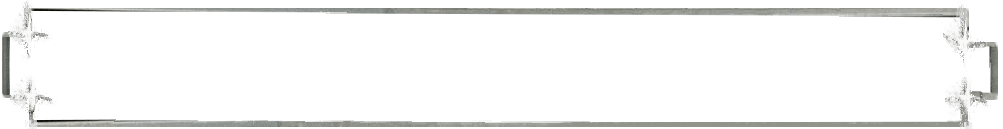
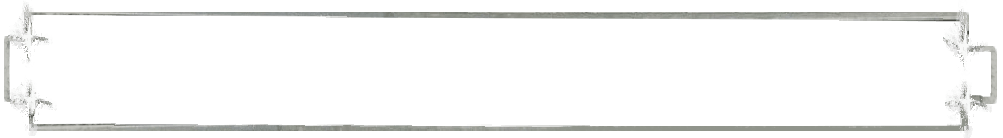
Restyle the monthly flag and swap the cart bar frame
The monthly flag moves to the email button grey at 36% with a thin white
rim, a soft bevel and a drop shadow, so it reads as a plate laid on the
artwork rather than a solid capsule.

The new cart bar artwork is shaped differently from the one it replaces:
its end caps carry a star near the top and another near the bottom, so
the slices have to reach past both and only the plain vertical stroke
between them is left to stretch. Border widths are half the slice sizes
to keep each corner in a box of its own proportions. Checked at 1440px
and 390px that the count and the checkout mark still share one line.

diff --git a/src/pages/Vault.css b/src/pages/Vault.css
@@ -262,12 +262,15 @@
      flourishes, so there is nothing left to pad. */
   padding: 0;
   border-style: solid;
-  /* Kept to the 75:50 and 68:50 of the slices below, so each corner is drawn
-     into a box of its own proportions and the flourishes are not stretched. */
-  border-width: 24px 33px 24px 36px;
+  /* Half the slice sizes below, so each corner is drawn into a box of its own
+     proportions and the end caps are not stretched. */
+  border-width: 34px 30px 30px 27px;
   border-color: transparent;
   border-image-source: url('../assets/cartBarFrame.png');
-  border-image-slice: 50 68 50 75;
+  /* The end caps carry a star near the top and another near the bottom, so the
+     slices have to reach past both. What is left between them is the plain
+     vertical stroke, which is the only part safe to stretch. */
+  border-image-slice: 68 59 59 53;
   border-image-repeat: stretch;
   font-size: 0.82rem;
   letter-spacing: 0.12em;
@@ -278,7 +281,7 @@
 @media (max-width: 768px) {
   .vault__cartBar {
     gap: 0.6rem;
-    border-width: 16px 22px 16px 24px;
+    border-width: 22px 19px 19px 17px;
   }
 }
 
@@ -364,8 +367,18 @@
 /* A subscription tile is priced per month and is never sold out, so it gets
    its own flag rather than reusing the stock one. */
 .vault__flag--plan {
-  background: #121a1c;
+  background: rgba(128, 128, 125, 0.36);
   color: #f7f9f6;
+  /* Overrides the pill radius on .vault__flag — a soft bevel rather than a
+     capsule, so it reads as a plate laid on the artwork. */
+  border-radius: 5px;
+  border: 1px solid rgba(255, 255, 255, 0.72);
+  /* Drop shadow to lift it off the artwork, inset highlight along the top edge
+     for the raised face. The fill is nearly clear, so the shadow and rim are
+     doing the work of holding the shape against a pale image. */
+  box-shadow:
+    0 2px 5px rgba(18, 24, 26, 0.3),
+    inset 0 1px 0 rgba(255, 255, 255, 0.35);
 }
 
 .vault__interval {
